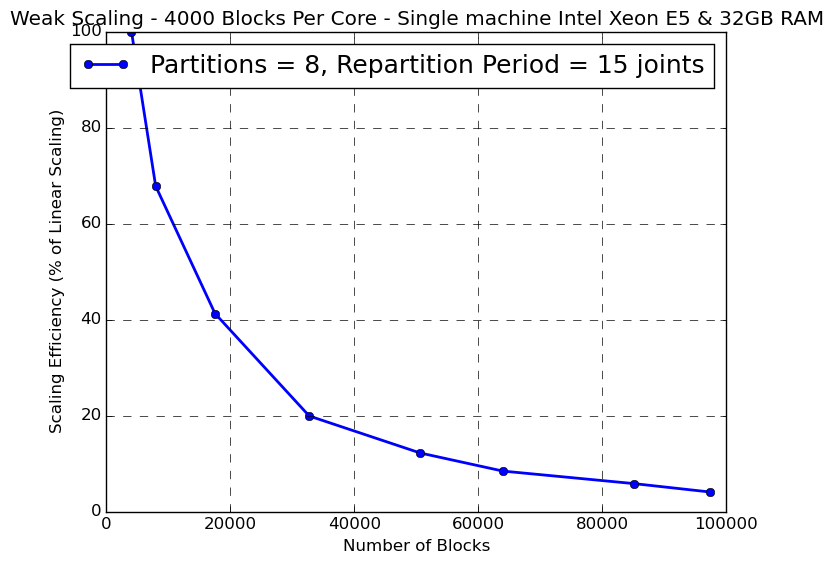
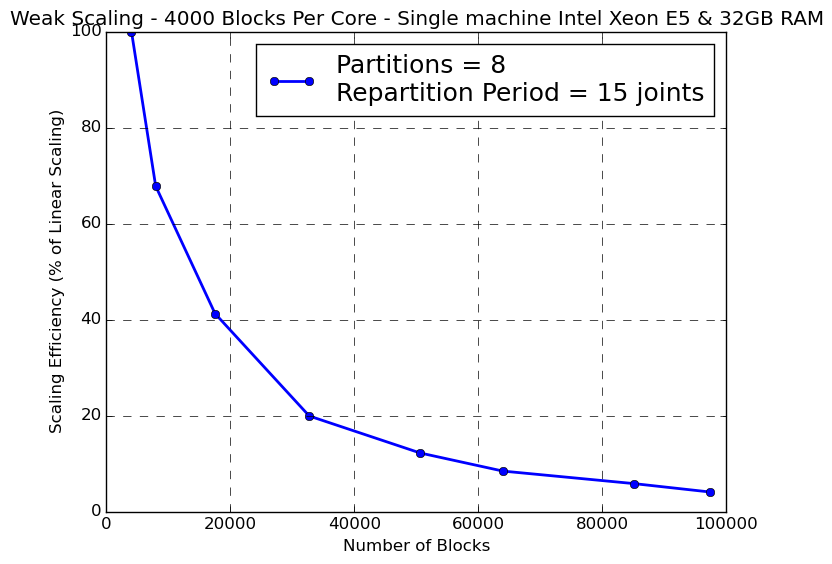
Legends fixed

Changed region(s): [[0.0625, 0.0603, 0.875, 0.211]]

diff --git a/plotting.py b/plotting.py
@@ -58,13 +58,13 @@ plt.xlabel('# of cores', fontsize=18)
 plt.legend(handles=[line1, line2, line3], loc=1, fontsize=18)
 plt.grid(b=True, which='major', linestyle='--')
 plt.grid(b=True, which='minor', linestyle='--') 
-fig1.savefig("strongScalingEfficiency.pdf", bbox_inches="tight")
+fig1.savefig("strongScalingEfficiency.png", bbox_inches="tight")
 plt.close(fig1)
 
 fig2 = plt.figure()
 ax2 = fig2.add_subplot(111)
 # ax2 = plt.axes(xlim=(1, 24), ylim=(0, 100))
-line1, = ax2.plot(nBlocks[:], weak[:],linewidth=2, color='b', marker='o', label='Partitions = 8, Repartition Period = 15 joints')
+line1, = ax2.plot(nBlocks[:], weak[:],linewidth=2, color='b', marker='o', label='Partitions = 8 \nRepartition Period = 15 joints')
 plt.title("Weak Scaling - 4000 Blocks Per Core - Single machine Intel Xeon E5 & 32GB RAM")
 plt.ylabel('Scaling Efficiency (% of Linear Scaling)')
 plt.xlabel('Number of Blocks')
@@ -121,11 +121,11 @@ plt.close(fig5)
 fig6 = plt.figure()
 ax6 = fig6.add_subplot(111)
 # ax6 = plt.axes(xlim=(1, 24))
-line1, = ax6.plot(nBlocks[:], timeWeak[:],linewidth=2, color='b', marker='o', label='Partitions = 8, Repartition Period = 15 joints')
+line1, = ax6.plot(nBlocks[:], timeWeak[:],linewidth=2, color='b', marker='o', label='Partitions = 8 \nRepartition Period = 15 joints')
 plt.title("Weak Scaling - 4000 Blocks Per Core - Single machine Intel Xeon E5 & 32GB RAM", fontsize=20, y=1.08)
 plt.ylabel('Time (seconds)', fontsize=18)
 plt.xlabel('Number of Blocks', fontsize=18)
-plt.legend(handles=[line1], loc=1, fontsize=18)
+plt.legend(handles=[line1], loc=2, fontsize=18)
 plt.grid(b=True, which='major', linestyle='--')
 plt.grid(b=True, which='minor', linestyle='--') 
 fig6.savefig("weakScalingTime.png", bbox_inches="tight")

diff --git a/report/implementation.tex b/report/implementation.tex
@@ -44,7 +44,7 @@ As the subdivision continues, some of the discontinuities may become geometrical
 
 Here, \textbf{c} is one of the normal vectors $a_{i}$. If $\vert \boldsymbol{c^{T} x} - d \vert < \varepsilon$ is true the discontinuity is redundant, where $\varepsilon$ represents numerical tolerance close to zero. \par
 
-Not all joints are necessily persistent and this needs to be accounted for in the solution of the linear program. Each joint contains a list of inequalities that represent its extent within the plane that defines the joint. These inequalities are in reference to a local origin within the joint plane and need to first be converted to global coordinates before intersection can be established. The local inequalities are transformed to global coordinates through a rotation transformation to then yield the following linear program: 
+Not all joints are necessily persistent and this needs to be accounted for in the solution of the linear program. Each joint contains a list of inequalities that represent its extent within the plane that defines the joint. These inequalities are in reference to a local origin within the joint plane and first need to be converted to global coordinates before intersection can be established. The local inequalities are transformed to global coordinates through a rotation transformation to then yield the following linear program: 
 \begin{equation}
 \begin{aligned} 
 &\text{minimize } s\\

diff --git a/report/performance.tex b/report/performance.tex
@@ -8,7 +8,7 @@ There is a significant spike in the time it took the runs to complete when using
 \begin{figure}
   \centering
   \includegraphics[width=0.4\textwidth]{FrequencySensitivity}
-  \caption{}
+  \caption{Repartition Frequency Results}
   \label{fig:FrequencySensitivity}
 \end{figure}
 
@@ -22,7 +22,7 @@ Figure \ref{fig:PartCount} shows the results of our sensitivity analysis for RDD
 \begin{figure}
   \centering
   \includegraphics[width=0.4\textwidth]{PartCount}
-  \caption{}
+  \caption{Partition Count Results}
   \label{fig:PartCount}
 \end{figure}
 
